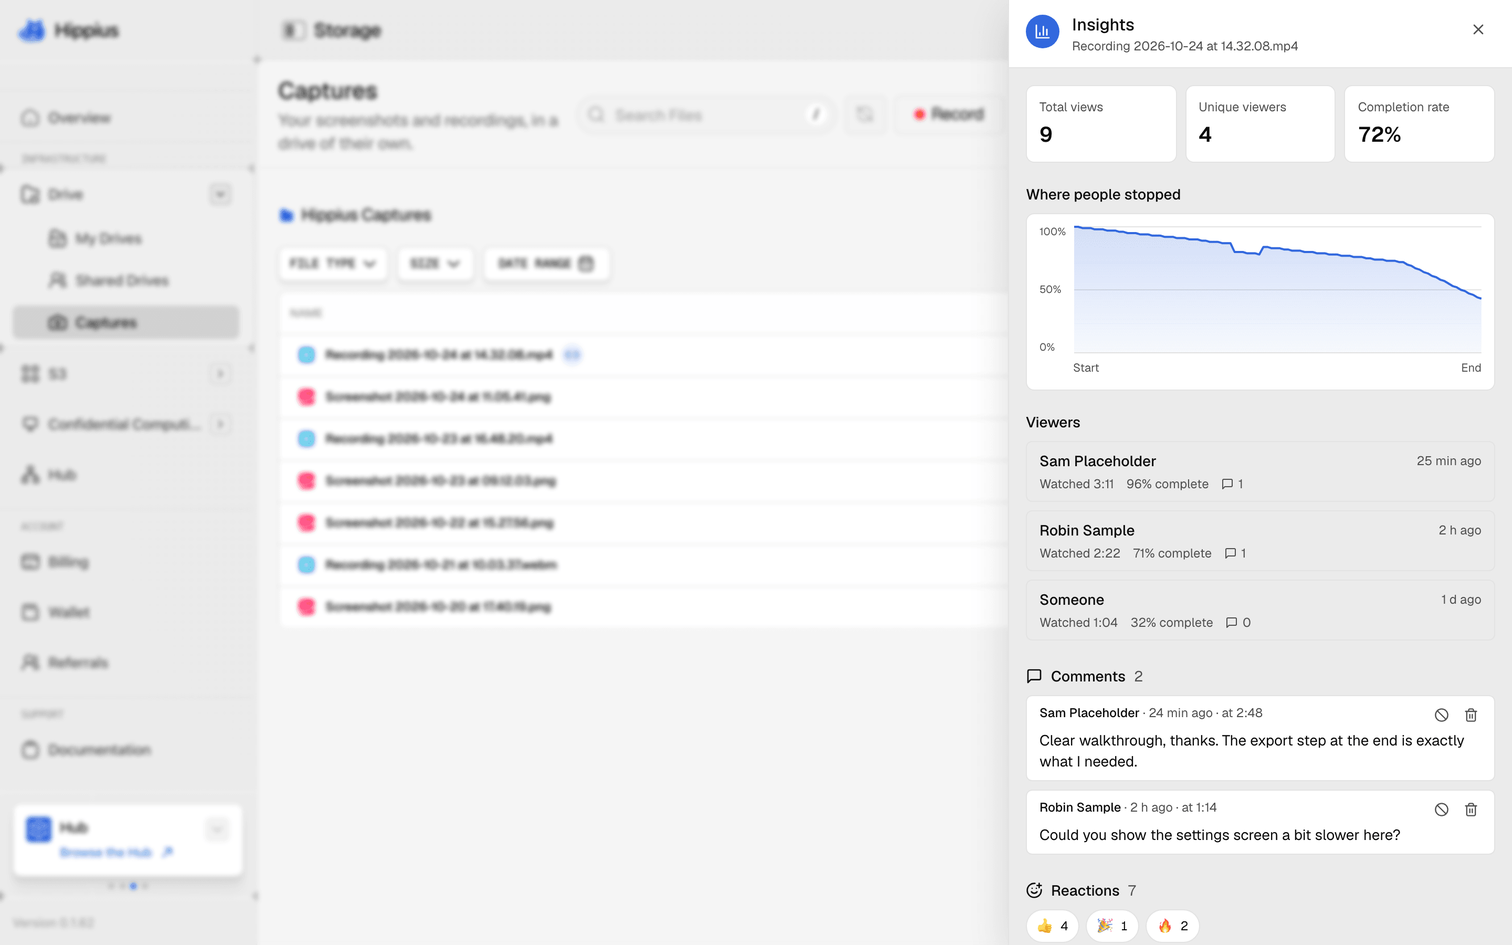
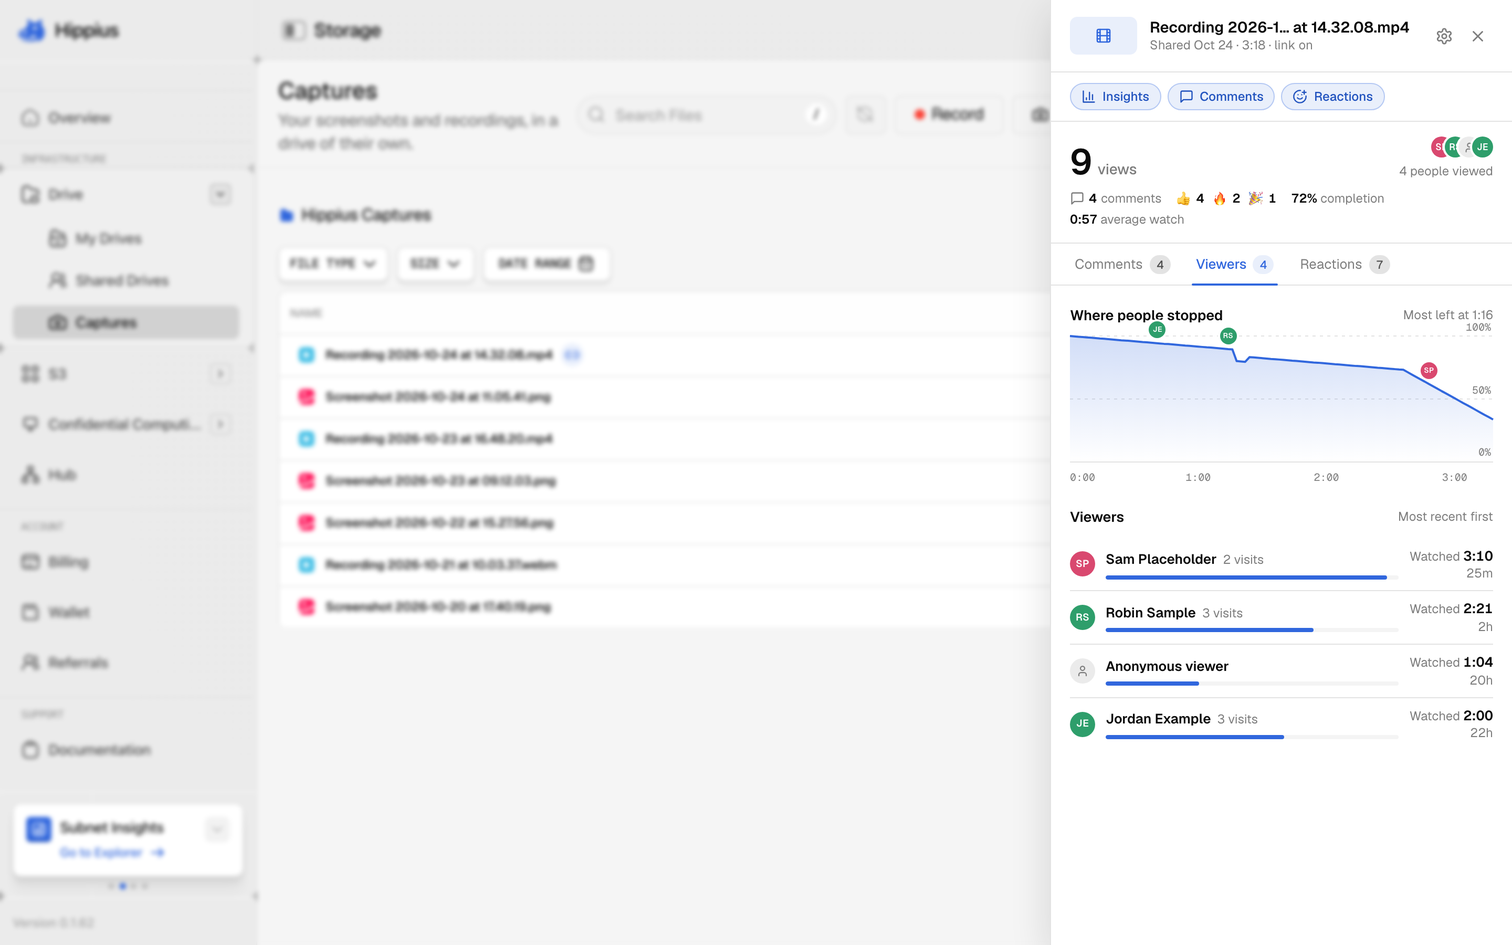
docs(captures): match the console's live insights, comments and link settings
Console 0.1.69 shipped share link insights, comments and reactions. The
Captures row has an Insights button with the view count, the panel has
Comments, Viewers and Reactions tabs with link settings behind a gear,
Free plan links start with all three switches off, share link emails
show without a flag, and comments open without the unlock password when
the browser already has the link's key. Screenshots retaken from the
live design.

diff --git a/docs/use/captures/insights.md b/docs/use/captures/insights.md
@@ -25,13 +25,15 @@ Insights, comments and reactions are live in the [console](/use/console/shared-l
 
 ## Open a link's Insights
 
-Insights open in a panel on the right, so the list you were looking at stays in view. In **Captures**, click <BgStyledText>Insights</BgStyledText> next to a capture that has a link (in the console, <BgStyledText>View insights</BgStyledText> is in the capture's row menu). You can also open them from the link's row in **Shared Links**, from the card right after a capture (in its More menu in the desktop app, right on the card in the console), and from any email about your link, which takes you straight there in the console.
+Insights open in a panel on the right, so the list you were looking at stays in view. In **Captures**, click <BgStyledText>Insights</BgStyledText> next to a capture that has a link. In the console that button shows how many views the link has had, for example **12 views**, or **Insights off** when the link isn't counting views, and <BgStyledText>View insights</BgStyledText> in the capture's row menu opens the same panel. You can also open them from the link's row in **Shared Links**, from the card right after a capture (in its More menu in the desktop app, <BgStyledText>View insights</BgStyledText> right on the card in the console), and from any email about your link, which takes you straight there in the console.
+
+<Screenshot src="/img/console/captures/captures-insights-button.png" alt="The Captures page in the console, with a 9 views button on a recording's row that opens its Insights" dark raw />
+
+The panel shows the headline numbers first (views, people and how much they watched, with how many comments and reactions there are), then the comments, viewers and reactions, each on its own tab, so a link with dozens of comments stays easy to read. In the console the panel opens on Comments when there are some, and a row of pills under the file name shows which of Insights, Comments and Reactions are on for the link.
 
 <Screenshot src="/img/desktop/captures/insights-panel.png" alt="The Insights panel in the desktop app next to the Captures page, showing 9 views, 5 people, 71% completion and four comments" dark raw />
 
-The panel shows the headline numbers first (views, people and how much they watched), then the comments, viewers and reactions. The desktop app gives each of those its own tab, so a link with dozens of comments stays easy to read, and the console stacks them in one column.
-
-<Screenshot src="/img/console/captures/insights.png" alt="The Insights panel in the console with total views, unique viewers, completion rate, a chart of where people stopped, and the viewer list" dark raw />
+<Screenshot src="/img/console/captures/insights.png" alt="The Insights panel in the console with 9 views, 4 people viewed, completion and average watch, then the Viewers tab with a chart of where people stopped and the viewer list" dark raw />
 
 ## What the numbers mean
 
@@ -40,25 +42,27 @@ The panel shows the headline numbers first (views, people and how much they watc
   <li><strong>Unique viewers</strong>: different browsers that opened it. The same person on their phone and their laptop counts twice.</li>
   <li><strong>Completion</strong>: for each view of a recording, how much of the video was played, averaged over all views. Skipped parts don't count, and parts watched twice count once.</li>
   <li><strong>Average watch time</strong>: how long people watched, on average.</li>
-  <li><strong>Where people stopped</strong>: a chart that shows, for each moment of the recording, how many views reached it. A sharp drop tells you where people lost interest or found what they needed. In the desktop app, each commenter appears on the chart at the moment they commented on.</li>
-  <li><strong>Viewers</strong>: everyone who watched, with how much they watched and when. People appear as <em>Anonymous viewer</em> (in the desktop app) or <em>Someone</em> (in the console) unless they commented under a name.</li>
+  <li><strong>Where people stopped</strong>: a chart that shows, for each moment of the recording, how many views reached it. A sharp drop tells you where people lost interest or found what they needed. Each commenter appears on the chart at the moment their comment is about.</li>
+  <li><strong>Viewers</strong>: everyone who watched, with how much they watched and when. People appear as <em>Anonymous viewer</em> unless they commented under a name.</li>
 </Unordered>
 
 Screenshots and other pictures get views and viewers, but no completion or chart, since there is nothing to play.
 
 ## Comments and reactions
 
-When comments are on, people who open your link see a comment box under the screenshot or video and can read what others wrote. Anyone with the link can read the comments, and posting one needs a Hippius account. Reactions work the same way: anyone can see them, and reacting needs an account.
+When comments are on, people who open your link see the comments in a panel beside the screenshot or video (below it on a phone), with a box to add their own. Anyone with the link can read the comments, and posting one needs a Hippius account. Reactions work the same way: a bar of emoji under the file that anyone can see, and reacting needs an account. People can also reply to a comment, and a reply you post on your own link carries an **Owner** badge.
 
-A comment on a recording shows the moment in the video it was written at, so you know which part someone is talking about.
+A comment on a recording shows the moment in the video it was written at, so you know which part someone is talking about. On the link's page it also sits on the video's timeline, and clicking it plays the video from that moment.
 
-You stay in charge of what appears under your link. From a comment's menu in Insights you can delete it for everyone, or block its author from commenting and reacting on this link. Their earlier comments stay until you delete them.
+You stay in charge of what appears on your link. From a comment's menu in Insights you can delete it for everyone, or block its author from commenting and reacting on this link, and **Unblock** undoes it. Their earlier comments stay until you delete them.
+
+<Screenshot src="/img/console/captures/insights-comments.png" alt="The Comments tab of the console's Insights panel, with comments from Sam, Robin and Jordan at moments in the recording, a reply from the owner, and the reaction totals in the summary" dark raw />
 
 ## Choose what each link collects
 
 Each link has three switches: **Insights** (counting views and watch time), **Comments** and **Reactions**. When Insights is on, people who open the link see a short note saying you can see how many people viewed it.
 
-You'll find them in the share dialog when you make a link, and later in the link's Insights: behind the gear at the top of the panel in the desktop app, or under **Link settings** in the console. Changes apply straight away. Turning one off stops new views, comments or reactions from being added, and what was already collected stays in your Insights.
+You'll find them in the share dialog when you make a link, and later in the link's Insights, behind the gear at the top of the panel (**Link settings**). In the console, clicking any of the pills under the file name opens them too. Changes apply straight away. Turning one off stops new views, comments or reactions from being added, and what was already collected stays in your Insights.
 
 <Screenshot src="/img/desktop/captures/link-settings.png" alt="Link settings opened from the gear in the Insights panel, with Insights, Comments and Reactions switched on" dark raw />
 
@@ -67,10 +71,10 @@ You'll find them in the share dialog when you make a link, and later in the link
 | | Desktop app | Console |
 |---|---|---|
 | Screenshots and recordings, paid plan | On | On |
-| Screenshots and recordings, Free plan | Off | On, for now |
+| Screenshots and recordings, Free plan | Off | Off |
 | Other files, any plan | Off | Off |
 
-On the Free plan in the desktop app, turning a switch on shows an upgrade prompt. Links that already have one on keep it, and you can always turn it off. In both apps, Insights on the Free plan show how many views a link has had and by how many people; completion, the chart and the viewer list come with paid plans. The console will start matching the desktop app's Free plan defaults soon.
+On the Free plan, turning a switch on shows an upgrade prompt instead, *Insights, comments and reactions are available on paid Drive plans*, with an **Upgrade** button. Links that already have one on keep it, and you can always turn it off. Insights on the Free plan show how many views a link has had and by how many people; completion, the chart and the viewer list come with paid plans. In the console, a Free plan link that isn't counting views shows the upgrade card in its Insights instead of numbers.
 
 In the desktop app, **Track views, comments and reactions** in [Settings, Screenshots &amp; Recording](/use/desktop/settings#screenshots--recording) decides where the switches start for your captures.
 
@@ -78,7 +82,7 @@ In the desktop app, **Track views, comments and reactions** in [Settings, Screen
 
 Hippius can email you when something happens to your links, so you don't have to keep checking. You can get an email when a link is opened for the first time, and another when people comment (comments are encrypted, so it says how many there are, not what they say). There's also a daily or weekly summary of views and comments across all your links, if you'd like one.
 
-Choose them in the desktop app under [Settings, Notifications](/use/desktop/settings#emails-about-your-links), or in the console under [Settings, Share link emails](/use/console/settings#share-link-emails). Each email also has a link to stop that kind of email. These emails are rolling out, so if you don't see the settings yet, they're on their way.
+Choose them in the console under [Settings, Share link emails](/use/console/settings#share-link-emails), or in the desktop app under [Settings, Notifications](/use/desktop/settings#emails-about-your-links). Each email also has a link to stop that kind of email.
 
 <Screenshot src="/img/desktop/captures/settings-link-emails.png" alt="Emails about your links in the desktop app's notification settings, with First views, New comments and a weekly Summary" dark raw />
 
@@ -88,7 +92,7 @@ Share links are public: anyone who has the full link can open the file. Insights
 
 **Who can read comments.** Comments, and the names people comment under, are encrypted with the link's key, the part after the `#` that browsers never send to a server. Anyone with the link can read them, and Hippius can't. That's also why comment emails only tell you how many there are.
 
-**Reading them on a new device.** Hippius needs that key again before it can show you the comments. In the console, Insights asks for your [unlock password](/use/console/unlock-password), the same one that opens your Drive. The desktop app finds the key in your account by itself. If it can't, a comment shows as *This comment couldn't be read*, and opening the full link in your browser still shows every comment on the link's own page. Comments on a link with a password are only shown on that page, after the password.
+**Reading them on a new device.** Hippius needs that key again before it can show you the comments. The console looks for it wherever your browser already has it: the tab you made the link in, your Drive if it's unlocked, another console tab you have open, or the browser extension when you open Insights from it. When it finds the key, the comments open straight away, with no password. Only when none of those has it does Insights ask for your [unlock password](/use/console/unlock-password), the same one that opens your Drive. The desktop app finds the key in your account by itself. If it can't, a comment shows as *This comment couldn't be read*, and opening the full link in your browser still shows every comment on the link's own page. Comments on a link with a password are only shown on that page, after the password.
 
 **What isn't encrypted.** Reactions and view counts. Hippius has to count them, so it can see which emoji were picked and how many views a link had, but never the file. Views are anonymous: a random ID kept in the viewer's browser, with no account or IP address, and only numbers are kept, never what was on screen.
 

diff --git a/docs/use/console/shared-links.md b/docs/use/console/shared-links.md
@@ -236,17 +236,19 @@ When someone opens your share link, they land on a simple page in their browser 
 
 A **Download** option is always available. The file is streamed directly to the recipient's device, decrypted entirely in their browser. We never see the file in plaintext on the recipient's end either.
 
+When you've turned on comments or reactions for a link, recipients also see the comments in a panel beside the file (below it on a phone) and a bar of emoji reactions under it. See [Views, Comments and Reactions](#views-comments-and-reactions).
+
 If the link has been revoked or has expired, recipients see: _"This link has expired or been revoked."_ The page deliberately does not say which, which prevents anyone from guessing whether a link was ever valid.
 
 ## Views, Comments and Reactions
 
-Once a link exists, the share dialog shows three more switches under **Views, comments and reactions**: **Insights** counts views and watch time, **Comments** lets people comment, and **Reactions** lets them react with an emoji. They start on for screenshots and recordings you take in the console, and off for other files. Recipients see a short note when views are counted, can read comments without an account, and need a Hippius account to post a comment or react.
+Once a link exists, the share dialog shows three more switches under **Views, comments and reactions**: **Insights** counts views and watch time, **Comments** lets people comment, and **Reactions** lets them react with an emoji. On a paid Drive plan they start on for screenshots and recordings, and off for other files. On the Free plan they all start off, and turning one on shows an upgrade prompt instead. Recipients see a short note when views are counted, can read comments without an account, and need a Hippius account to post a comment or react.
 
 <Screenshot src="/img/console/captures/share-dialog-switches.png" alt="The console share dialog after the link is made, with Show a preview in chats and the Insights, Comments and Reactions switches" dark raw />
 
-To see what happened to a link, choose **View insights** from its row in Shared Links or in [Captures](/use/captures). Insights open in a panel on the right with the views, the viewers, a chart of where people stopped watching a video, the comments and the reactions. Comments and viewer names are end-to-end encrypted with the link's key. Everything about it, including what the Free plan shows, is in [Insights, comments and reactions](/use/captures/insights).
+To see what happened to a link, click <BgStyledText>Insights</BgStyledText> on its row in Shared Links or in [Captures](/use/captures), or choose **View insights** from the row menu. Shared Links also shows each link's **Views** and **Comments**, and you can sort by either. Insights open in a panel on the right with the views, a chart of where people stopped watching a video, and Comments, Viewers and Reactions tabs. The link's switches are behind the gear at the top of the panel. Comments and viewer names are end-to-end encrypted with the link's key. Everything about it, including what the Free plan shows, is in [Insights, comments and reactions](/use/captures/insights).
 
-<Screenshot src="/img/console/captures/insights-comments.png" alt="The console Insights panel showing viewers, comments with block and delete buttons, reactions and the Link settings switches" dark raw />
+<Screenshot src="/img/console/captures/insights-comments.png" alt="The Comments tab of the console's Insights panel, with comments from Sam, Robin and Jordan at moments in the recording, a reply from the owner, and the reaction totals in the summary" dark raw />
 
 ## Storage Usage
 

diff --git a/docs/use/desktop/settings.md b/docs/use/desktop/settings.md
@@ -287,7 +287,7 @@ Sync & Storage
 
     ### Emails about your links
 
-    <p>Arriving with <a href="/use/captures/insights">Insights</a>, this card lets Hippius email you about your share links: <strong>First views</strong> when a link is opened for the first time, <strong>New comments</strong> when people comment (the email says how many, since comments are encrypted), and a <strong>Summary</strong> of views and comments, daily, weekly or off. These emails are rolling out, so the card may not appear yet. More in <a href="/use/captures/insights#emails-about-your-links">Emails about your links</a>.</p>
+    <p>Arriving with <a href="/use/captures/insights">Insights</a> in version 0.6.16, which is on the <a href="/use/desktop/beta-channel">beta channel</a> now, this card lets Hippius email you about your share links: <strong>First views</strong> when a link is opened for the first time, <strong>New comments</strong> when people comment (the email says how many, since comments are encrypted), and a <strong>Summary</strong> of views and comments, daily, weekly or off. Until 0.6.16 reaches you, you can choose the same emails in the console. More in <a href="/use/captures/insights#emails-about-your-links">Emails about your links</a>.</p>
 
     <Screenshot src="/img/desktop/captures/settings-link-emails.png" alt="Emails about your links with First views, New comments and a weekly Summary" dark raw />
 

diff --git a/docs/use/captures/share-links.md b/docs/use/captures/share-links.md
@@ -35,9 +35,9 @@ Previews are on for captures unless you turn off **Show a preview in chats**, in
 
 ## Views, comments and reactions
 
-A capture link can also tell you who watched, and let people reply. You see how many people opened it and, on a paid plan, how far into a recording they got. Viewers can comment and react right under the video or screenshot. Comments are end-to-end encrypted with the link's key, while reactions and view counts aren't.
+A capture link can also tell you who watched, and let people reply. You see how many people opened it and, on a paid plan, how far into a recording they got. Viewers can comment and react right on the link's page, beside the video or screenshot. Comments are end-to-end encrypted with the link's key, while reactions and view counts aren't.
 
-Each link has its own Insights, Comments and Reactions switches, in the share dialog and in the link's Insights. On paid Drive plans they start on for screenshots and recordings.
+Each link has its own Insights, Comments and Reactions switches, in the share dialog and in the link's Insights. On paid Drive plans they start on for screenshots and recordings; on the Free plan they start off.
 
 <Screenshot src="/img/desktop/captures/share-dialog.png" alt="The Share via link dialog in the desktop app with Show a preview in chats, Insights, Comments and Reactions switches" dark raw />
 

diff --git a/docs/use/captures/plans.md b/docs/use/captures/plans.md
@@ -57,7 +57,7 @@ The watermark is drawn into the picture on your computer, before the capture is 
 
 On a paid Drive plan, links to your screenshots and recordings come with full [Insights](/use/captures/insights): views, viewers, how much of a recording each person watched and where they stopped, plus comments and reactions, all switched on for you.
 
-On the Free plan, Insights show how many times a link was opened and by how many people; completion, the chart of where people stopped and the viewer list come with paid plans. In the desktop app, new links on the Free plan start with Insights, comments and reactions off, and turning them on shows an upgrade prompt. See [Where the switches start](/use/captures/insights#where-the-switches-start).
+On the Free plan, Insights show how many times a link was opened and by how many people; completion, the chart of where people stopped and the viewer list come with paid plans. New links on the Free plan start with Insights, comments and reactions off, in the desktop app and the console, and turning one on shows an upgrade prompt. Links that already had one on keep it until you turn it off. See [Where the switches start](/use/captures/insights#where-the-switches-start).
 
 ## Storage
 

diff --git a/docs/use/browser-extension/sharing.md b/docs/use/browser-extension/sharing.md
@@ -47,7 +47,7 @@ For a file over 300 MB, copy or make its link in the console instead.
 
 ## See who watched
 
-On a paid plan, every link the extension makes comes with insights, comments and reactions switched on. You can see how many people opened the link and how much of a recording they watched, and the people you send it to can comment and react right under the video or screenshot.
+On a paid plan, every link the extension makes comes with insights, comments and reactions switched on. You can see how many people opened the link and how much of a recording they watched, and the people you send it to can comment and react right on the link's page, beside the video or screenshot.
 
 To look, find the capture in the popup. A capture with a link shows its views, reactions and comments at the end of its row, and the views turn blue when there's something new. Choose <BgStyledText>View insights</BgStyledText> from the row's three-dot menu to see who watched, for how long, and what they said. It works for any capture with a live link, wherever the link was made, and the comments usually open straight away, without asking for your password.
 

diff --git a/docs/use/captures/troubleshooting.md b/docs/use/captures/troubleshooting.md
@@ -94,7 +94,7 @@ A chat preview needs **Show a preview in chats** to be on when the link is made,
 
 ### Insights ask me to unlock before showing comments
 
-Comments are end-to-end encrypted with the link's key. In the console, if that key isn't in your browser yet, enter your [unlock password](/use/console/unlock-password) and the comments appear. For a link with a password, comments can only be read on the link's own page. See [Insights, comments and reactions](/use/captures/insights#privacy).
+Comments are end-to-end encrypted with the link's key. The console only asks when it can't find that key anywhere in your browser: not in this tab, not in your Drive if it's unlocked, and not in another console tab you have open. Enter your [unlock password](/use/console/unlock-password) and the comments appear. If your Drive is unlocked in another console tab, leave that tab open and the comments open without asking. For a link with a password, comments can only be read on the link's own page. See [Insights, comments and reactions](/use/captures/insights#privacy).
 
 ### I don't see Insights in the desktop app
 

diff --git a/docs/use/captures/overview.md b/docs/use/captures/overview.md
@@ -15,7 +15,7 @@ Some things are quicker to show than to explain. Take a screenshot or record you
 
 What sets Hippius apart is where your captures live. Most screen recorders upload your videos to their own servers, in a form they can read. Hippius encrypts every capture on your computer before it's uploaded, into a drive in your own account. The key that opens it travels inside the link, so the people you send it to can watch it, and we can't.
 
-And a link can do more than play the video. You can see how many people opened it and, on a paid plan, how far into a recording they got. The people you sent it to can reply right under it, and their comments are encrypted with the same key as the capture.
+And a link can do more than play the video. You can see how many people opened it and, on a paid plan, how far into a recording they got. The people you sent it to can comment right next to it, and their comments are encrypted with the same key as the capture.
 
 ## What happens when you capture
 

diff --git a/docs/use/console/settings.md b/docs/use/console/settings.md
@@ -63,7 +63,7 @@ Hippius can also email you about your [share links](/use/console/shared-links), 
 | **Email me about new comments** | When people comment on your links. Comments are end-to-end encrypted, so the email says how many there are, not what they say. |
 | **Summary email** | A round-up of views and comments across your links: **Off**, **Daily** or **Weekly**. |
 
-Each email has a link to stop that kind of email. These emails are rolling out, so if you don't see this section yet, it's on its way. See [Insights, comments and reactions](/use/captures/insights).
+Each email has a link to stop that kind of email. See [Insights, comments and reactions](/use/captures/insights).
 
 ## Theme
 
